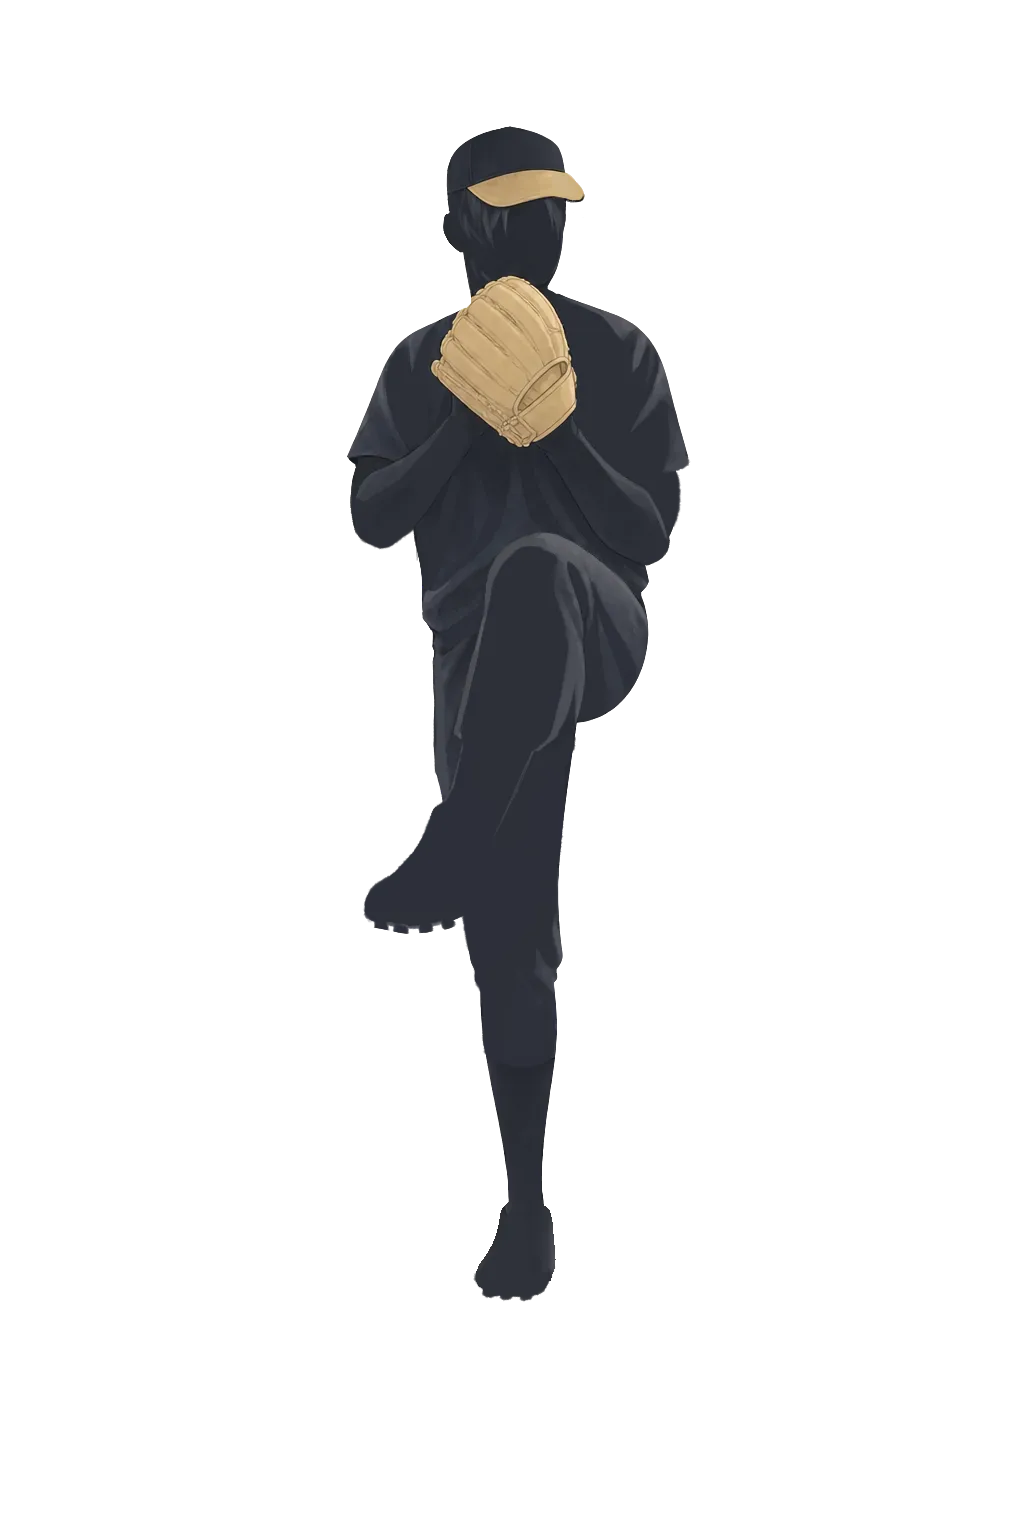
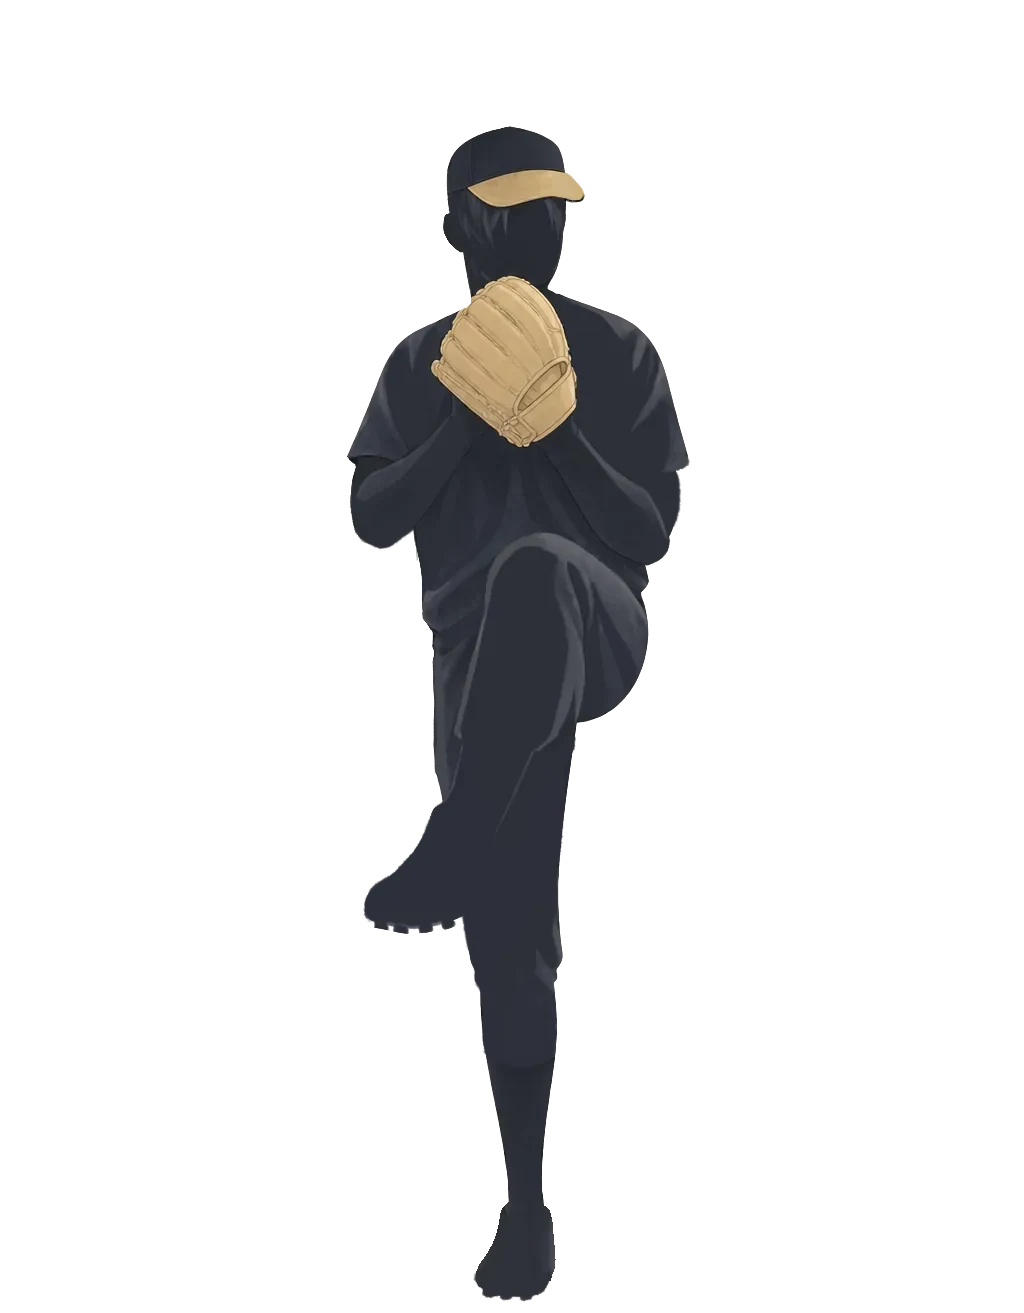
fix(ball-catch): 투수가 마운드 위에 떠 보이던 것
투수 그림 밑에 투명 여백이 235px(1536 중) 있었고, 그림 가운데를 35%에 세워서
폭이 좁을수록 발이 마운드 위로 더 떴다. 여백을 잘라 내고(1024×1313, ?v=4)
그림 밑변을 마운드(들판 높이의 62%, 넓은 칸에서는 object-cover가 잘라 내는 만큼
아래)에 딛게 세운다. 338·608·864px 폭에서 발이 마운드에 닿는 것을 확인했다.

Changed region(s): [[0.3438, 0.0625, 0.6875, 0.9992], [0.5312, 0.687, 0.5625, 0.8431]]

diff --git a/src/minigames/ball-catch/field.tsx b/src/minigames/ball-catch/field.tsx
@@ -50,7 +50,7 @@ export function BallCatchField({
       type="button"
       aria-label={labels.aria}
       onClick={onSwing}
-      className={`relative block h-96 w-full cursor-pointer overflow-hidden rounded-xs border-2 border-night focus-visible:outline-2 focus-visible:outline-offset-2 focus-visible:outline-memory ${
+      className={`@container relative block h-96 w-full cursor-pointer overflow-hidden rounded-xs border-2 border-night focus-visible:outline-2 focus-visible:outline-offset-2 focus-visible:outline-memory ${
         feedback ? "animate-batting-field-shake" : ""
       }`}
     >
@@ -65,9 +65,16 @@ export function BallCatchField({
       {/* 겨자색 노을 띠를 회갈색으로 눌러 앉힌다. 앰버는 링과 피드백의 몫이다 (globals.css) */}
       <div className="ball-catch-sky absolute inset-0" aria-hidden />
 
+      {/*
+       * 투수는 발끝(그림 밑변)을 마운드에 딛게 세운다. 예전에는 그림 가운데를 35%에 두어
+       * 밑의 투명 여백만큼, 폭이 좁을수록 더 떠 보였다. 마운드는 들판 그림 높이의 62%인데,
+       * 들판이 object-cover라 칸이 넓어지면(폭 > 높이×1.78) 위아래가 잘려 아래로 내려간다.
+       * 그 식이 12rem + 6.75cqw다 (그림 높이 0.5628W, 칸 24rem).
+       */}
       {/* biome-ignore lint/performance/noImgElement: Native images are required for the layered field sprites. */}
       <img
-        className="absolute left-1/2 top-[35%] w-36 -translate-x-1/2 -translate-y-1/2 drop-shadow-lg sm:w-44"
+        className="absolute left-1/2 w-36 -translate-x-1/2 -translate-y-full drop-shadow-lg sm:w-44"
+        style={{ top: "max(62%, calc(12rem + 6.75cqw))" }}
         src={ASSETS.images.mgBallCatchPitcher}
         alt=""
       />

diff --git a/src/lib/assets.ts b/src/lib/assets.ts
@@ -115,7 +115,7 @@ export const ASSETS = {
     mgPapersPaper: "/assets/images/mg-papers-paper.webp",
     mgBallCatchBall: "/assets/images/mg-ball-catch-ball.svg?v=2",
     mgBallCatchSunsetField: "/assets/images/mg-ball-catch-sunset-field.webp?v=2",
-    mgBallCatchPitcher: "/assets/images/mg-ball-catch-pitcher.webp?v=3",
+    mgBallCatchPitcher: "/assets/images/mg-ball-catch-pitcher.webp?v=4",
     mgBallCatchBat: "/assets/images/mg-ball-catch-bat.webp?v=2",
     mgBallCatchImpact: "/assets/images/mg-ball-catch-impact.webp?v=3",
     /**
